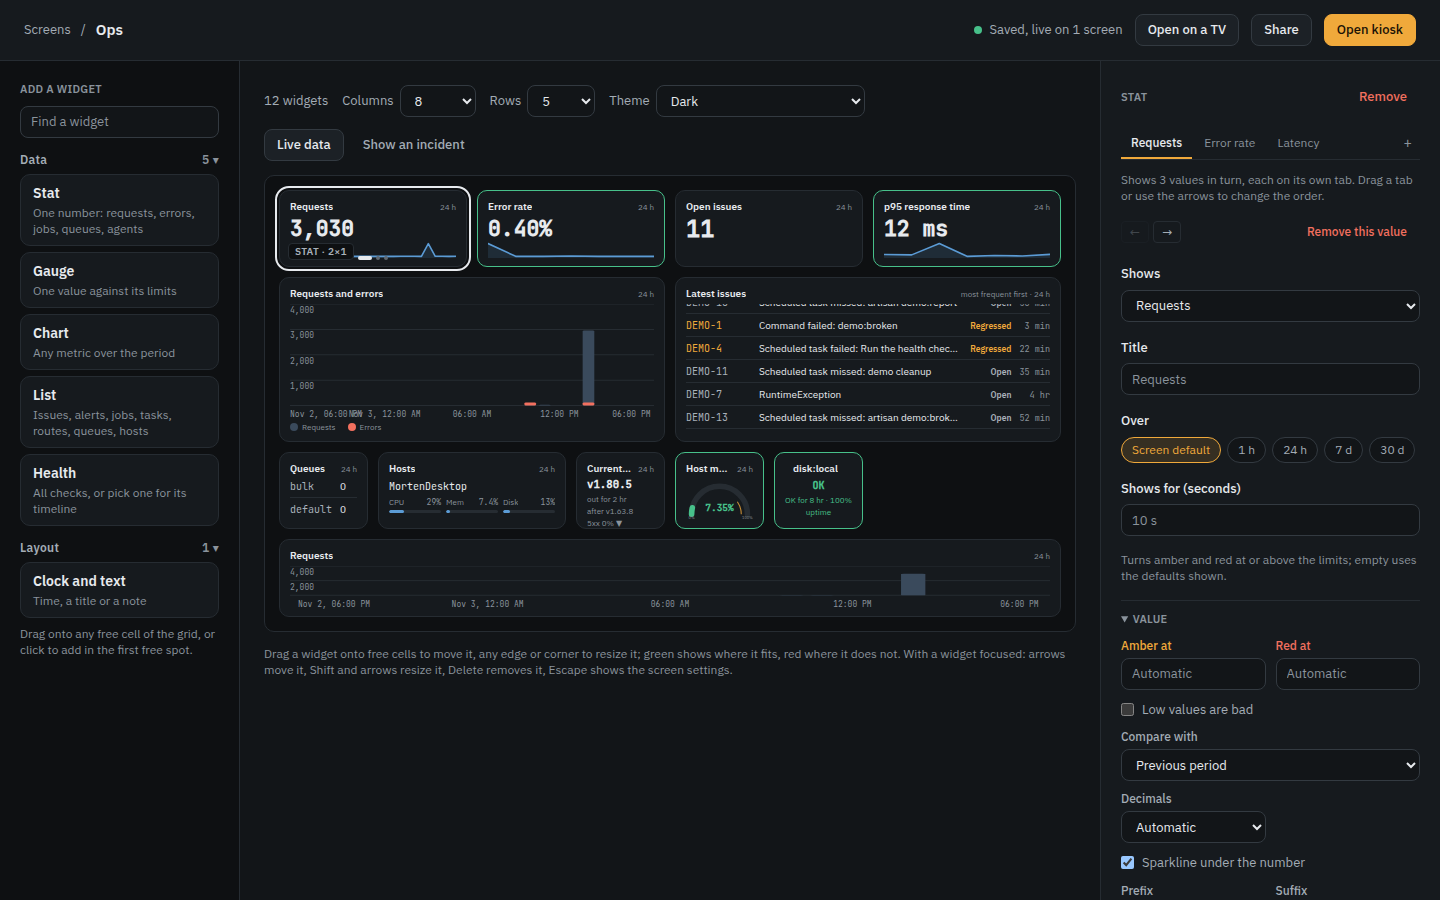
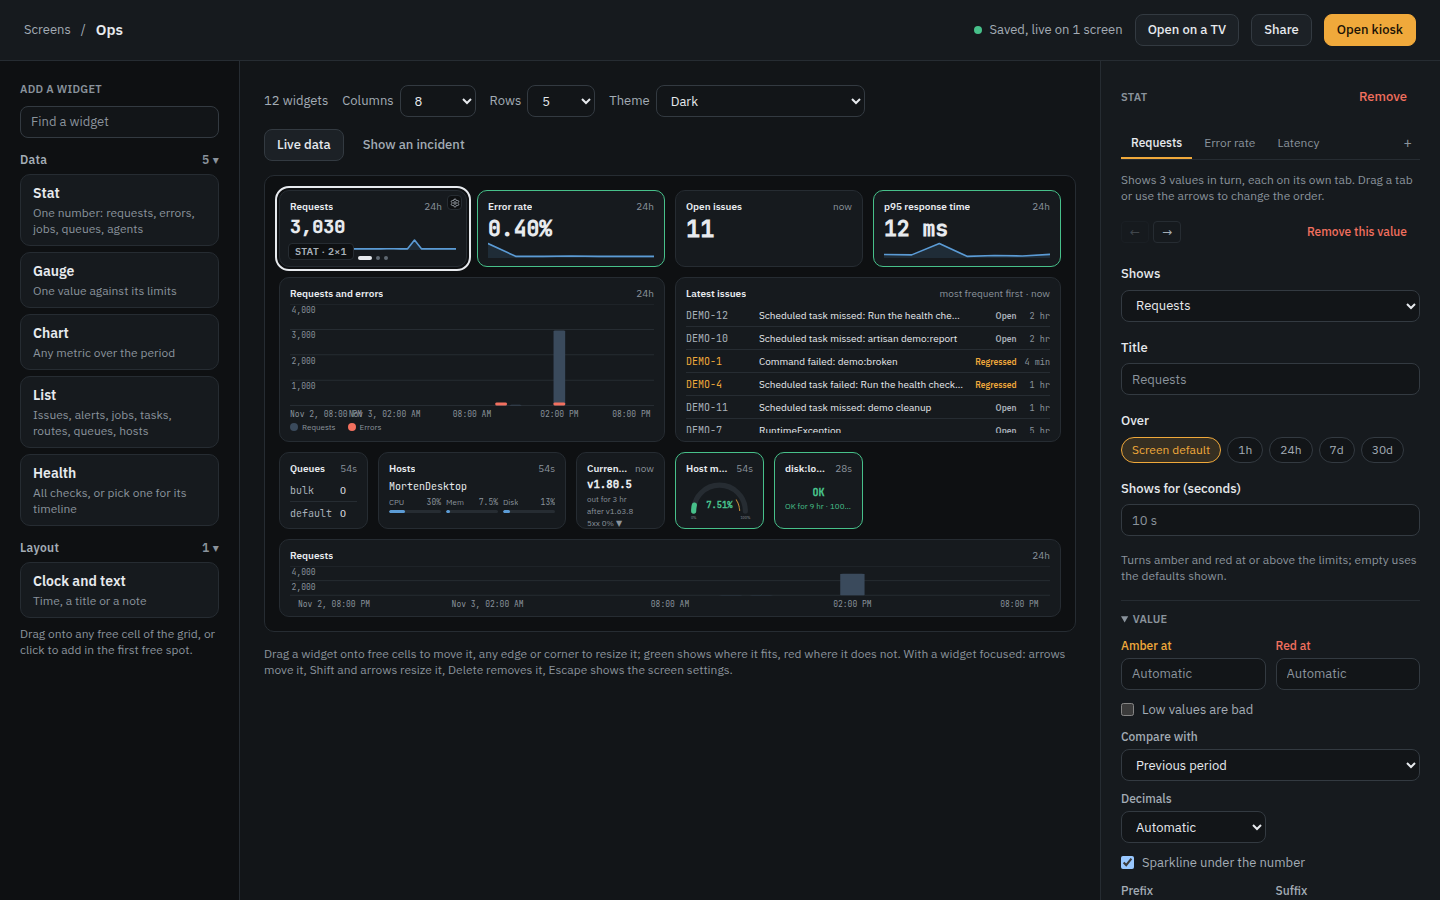
Move a widget's display settings behind a gear on its tile
The designer's tile gets a gear in its top right corner, shown on hover,
focus or selection like the type badge and never on the TV; the period
label moves aside while it shows. The gear selects the widget and opens
its Display fields in a native popover next to it, closed by Escape or a
click outside, rendered by the inspector's own field renderer and saved
like any other change. The inspector drops its Display section and points
to the gear.

diff --git a/resources/js/components/lj/screen/inspector.tsx b/resources/js/components/lj/screen/inspector.tsx
@@ -1,3 +1,5 @@
+import { Settings } from 'lucide-react';
+import { useRef, useState } from 'react';
 import type { ReactNode } from 'react';
 import { Button, Input, Label, Select } from '@/components/lj/ui';
 import { useT } from '@/lib/i18n';
@@ -117,6 +119,7 @@ export function WidgetInspector({
     canResize,
     tab = 0,
     onTab = () => {},
+    part = 'all',
 }: {
     widget: Widget;
     catalog: Catalog;
@@ -128,6 +131,8 @@ export function WidgetInspector({
     /** The value of the rotation open in the tabs, which the designer's tile shows. */
     tab?: number;
     onTab?: (index: number) => void;
+    /** Only the Display fields, for the gear on the designer's tile (DisplayGear). */
+    part?: 'all' | 'display';
 }) {
     const t = useT();
     const { schema, sources } = catalog;
@@ -831,7 +836,20 @@ export function WidgetInspector({
             : (pool.find((s) => s.id === r.source)?.label ?? r.source));
     const sections = schema[widget.type] ?? [];
     const [valueSection, ...rest] = sections;
-    const whole = rest.filter((s) => s.id !== 'rotation' || items.length > 1);
+    // Display lives behind the gear on the tile.
+    const whole = rest.filter(
+        (s) => s.id !== 'display' && (s.id !== 'rotation' || items.length > 1),
+    );
+
+    if (part === 'display') {
+        return (
+            <div className="grid grid-cols-2 gap-2.5">
+                {sections
+                    .find((s) => s.id === 'display')
+                    ?.fields.map((field) => renderField(field, false))}
+            </div>
+        );
+    }
 
     const value = (
         <>
@@ -1198,6 +1216,12 @@ export function WidgetInspector({
                     </Section>
                 ))}
 
+                {sections.some((s) => s.id === 'display') && (
+                    <p className="text-xs text-ink-3">
+                        {t('screens.inspector.display_hint')}
+                    </p>
+                )}
+
                 <div className="flex flex-col gap-1.5">
                     <span className="text-[13px] font-medium">
                         {t('screens.inspector.size')}
@@ -1374,5 +1398,103 @@ export function ScreenSettings({
                 </span>
             </div>
         </div>
+    );
+}
+
+/** Width of the gear's popover, to keep it on screen. */
+const GEAR_WIDTH = 300;
+
+/**
+ * The gear in a designer tile's top right corner: the widget's Display settings in a
+ * popover next to it (a native popover: Escape and a click outside close it).
+ */
+export function DisplayGear({
+    widget,
+    catalog,
+    onChange,
+    onOpen,
+    cols,
+}: {
+    widget: Widget;
+    catalog: Catalog;
+    onChange: (widget: Widget) => void;
+    onOpen: () => void;
+    cols: number;
+}) {
+    const t = useT();
+    const gear = useRef<HTMLButtonElement>(null);
+    const [at, setAt] = useState({ top: 0, left: 0 });
+    const popover = `display-${widget.id}`;
+    // Keeps the designer's tile handlers (select, drag, keys) out of the popover.
+    const stop = (e: { stopPropagation: () => void }) => e.stopPropagation();
+
+    return (
+        <>
+            <button
+                ref={gear}
+                type="button"
+                popoverTarget={popover}
+                aria-label={t('screens.inspector.display_gear')}
+                title={t('screens.inspector.display_gear')}
+                draggable={false}
+                className="lj-badge z-20 flex size-[1.5em] cursor-pointer items-center justify-center rounded border border-(--s-line) bg-(--s-ground) text-(--s-ink-2) hover:text-(--s-ink)"
+                onPointerDown={stop}
+                onClick={() => {
+                    const r = gear.current?.getBoundingClientRect();
+
+                    if (r) {
+                        setAt({
+                            top: r.bottom + 4,
+                            left: Math.max(
+                                8,
+                                Math.min(
+                                    r.right - GEAR_WIDTH,
+                                    window.innerWidth - GEAR_WIDTH - 8,
+                                ),
+                            ),
+                        });
+                    }
+
+                    onOpen();
+                }}
+            >
+                <Settings aria-hidden="true" className="size-[1em]" />
+            </button>
+            <div
+                id={popover}
+                popover="auto"
+                role="dialog"
+                aria-label={t('screens.inspector.display_gear')}
+                draggable={false}
+                className="m-0 cursor-auto rounded-md border border-line bg-panel p-3 text-left text-[13px] text-ink shadow-lg"
+                style={{
+                    position: 'fixed',
+                    inset: 'auto',
+                    top: at.top,
+                    left: at.left,
+                    width: GEAR_WIDTH,
+                }}
+                onClick={stop}
+                onPointerDown={stop}
+                onKeyDown={stop}
+                onDragStart={(e) => {
+                    e.preventDefault();
+                    e.stopPropagation();
+                }}
+            >
+                <h3 className="mb-2.5 text-[11px] font-semibold tracking-wide text-ink-3 uppercase">
+                    {t('screens.sections.display')}
+                </h3>
+                <WidgetInspector
+                    part="display"
+                    widget={widget}
+                    catalog={catalog}
+                    onChange={onChange}
+                    onRemove={() => {}}
+                    cols={cols}
+                    canResize={() => false}
+                />
+            </div>
+        </>
     );
 }

diff --git a/resources/js/components/lj/screen/widgets.tsx b/resources/js/components/lj/screen/widgets.tsx
@@ -312,6 +312,8 @@ export type TileProps = {
     flash?: boolean;
     /** Extra content above the tile's own: the designer's badge and resize handle. */
     decoration?: ReactNode;
+    /** In the tile's top right corner, the period label moving aside: the designer's gear. */
+    corner?: ReactNode;
     /** Told the tile's status whenever it changes, for the kiosk's flash and count. */
     onStatus?: (id: string, status: Status) => void;
 } & Omit<ComponentProps<'div'>, 'children'>;
@@ -331,6 +333,7 @@ export function WidgetTile({
     designer = false,
     flash = false,
     decoration,
+    corner,
     onStatus,
     className,
     style,
@@ -463,6 +466,15 @@ export function WidgetTile({
             }}
         >
             {decoration}
+            {corner && (
+                // The same corner on every tile; the period label makes room while it shows.
+                <span
+                    className="absolute top-1 right-1 z-20 flex"
+                    style={{ fontSize: 'var(--lj-cell-font)' }}
+                >
+                    {corner}
+                </span>
+            )}
             {showTitle && widget.type !== 'empty' && title && (
                 <div
                     className={cn(
@@ -482,7 +494,10 @@ export function WidgetTile({
                         {title}
                     </span>
                     <span
-                        className="lj-tile-small flex-none whitespace-nowrap"
+                        className={cn(
+                            'lj-tile-small flex-none whitespace-nowrap',
+                            corner && 'lj-corner-label',
+                        )}
                         // The same size on every tile, whatever its text or title size.
                         style={{ fontSize: 'var(--lj-cell-font)' }}
                     >

diff --git a/resources/js/pages/screens/edit.tsx b/resources/js/pages/screens/edit.tsx
@@ -5,6 +5,7 @@ import { toast } from 'sonner';
 import { useNow } from '@/components/lj/relative';
 import {
     ScreenSettings,
+    DisplayGear,
     WidgetInspector,
 } from '@/components/lj/screen/inspector';
 import type { Catalog } from '@/components/lj/screen/inspector';
@@ -1335,6 +1336,21 @@ export default function EditScreen(props: Props) {
                                     });
                                 }}
                                 onDragEnd={endDrag}
+                                corner={
+                                    widget.type !== 'empty' && (
+                                        <DisplayGear
+                                            widget={widget}
+                                            catalog={catalog}
+                                            cols={screen.cols}
+                                            onChange={(next) =>
+                                                patch(next.id, next)
+                                            }
+                                            onOpen={() =>
+                                                setSelected(widget.id)
+                                            }
+                                        />
+                                    )
+                                }
                                 decoration={
                                     <>
                                         <span

diff --git a/resources/css/screen.css b/resources/css/screen.css
@@ -164,8 +164,21 @@
 
 .lj-tile:hover .lj-badge,
 .lj-tile:focus-visible .lj-badge,
+.lj-tile:has(:focus-visible) .lj-badge,
 .lj-tile[data-selected='true'] .lj-badge {
     opacity: 1;
+}
+
+/* The designer's gear sits in the corner; the period label moves aside while it shows. */
+.lj-tile .lj-corner-label {
+    transition: padding-right 150ms;
+}
+
+.lj-tile:hover .lj-corner-label,
+.lj-tile:focus-visible .lj-corner-label,
+.lj-tile:has(:focus-visible) .lj-corner-label,
+.lj-tile[data-selected='true'] .lj-corner-label {
+    padding-right: 1.4em;
 }
 
 .lj-tile-title {

diff --git a/lang/en/ui/screens.php b/lang/en/ui/screens.php
@@ -151,6 +151,9 @@ return [
         'move_later' => 'Show later',
         'whole_widget' => 'Whole widget',
         'whole_widget_hint' => 'Applies to every value.',
+        // The gear in a designer tile's corner, and where Display went.
+        'display_gear' => 'Display settings',
+        'display_hint' => 'Display settings: the gear on the widget.',
         'limits_above' => 'Turns amber and red at or above the limits; empty uses the defaults shown.',
         'limits_below' => 'Turns amber and red at or below the limits; empty uses the defaults shown.',
         'ratio_hint' => 'Shares go from 0 to 1: 0.05 is 5%.',

diff --git a/docs/screens.md b/docs/screens.md
@@ -129,7 +129,7 @@ Each widget's settings are grouped in sections that open and close:
     Below the tabs, **Whole widget** holds what applies to every value: under
     **Rotation**, how often they switch (every 5 seconds to a minute), with a fade, a
     slide or neither, whether a value that needs attention (amber or red) holds the tile
-    until it clears, and the position dots; then Scope, Display and Size. Tiles with the
+    until it clears, and the position dots; then Scope and Size (Display is behind the gear). Tiles with the
     same timing switch together. As stored in the screen's widgets, a `rotate` entry is a
     source id or `{"source": "p95", "seconds": 30, "title": "Latency", "options":
   {"red": 800}, "scope": {"period": "24h"}}`; the first value's seconds are the
@@ -151,10 +151,17 @@ Each widget's settings are grouped in sections that open and close:
 - **Scope**: the projects, environment, period and release the widget shows, each the
   screen's default unless set, and a filter on the route, queue, job, host or database check (`*`
   matches anything, so `POST /checkout*` or `payments*`).
-- **Display**: whether the title shows and how big, whether the tile is colored by its status (and whether a calm tile keeps its green border),
-  the text size (fitted to the tile, or small to huge), alignment (left or centered, top or vertically centered), how often it updates
-  (live, every minute, every 5 minutes), and whether to hide it while all is ok or while
-  it has nothing to show.
+- **Display**: not in the inspector but behind the gear in the tile's top right corner,
+  next to the period, which shows while the pointer is on the tile, it has focus or it is
+  selected (never on the TV). The gear selects the widget and opens its display settings
+  in a small panel beside it; Escape or a click elsewhere closes it, and changes save like
+  any other. They are whether the title shows and how big, whether the tile is colored by
+  its status (and whether a calm tile keeps its green border), the text size (fitted to
+  the tile, or small to huge), alignment (left or centered, top or vertically centered),
+  how often it updates (live, every minute, every 5 minutes), and whether to hide it
+  while all is ok or while it has nothing to show.
+
+    ![A widget's display settings behind its gear](./screenshots/screen-designer-display.png)
 
 Older screens may still have an **Empty cell** widget, from when widgets filled the grid
 in order and a gap needed a filler. It still works (dashed in the designer, invisible
